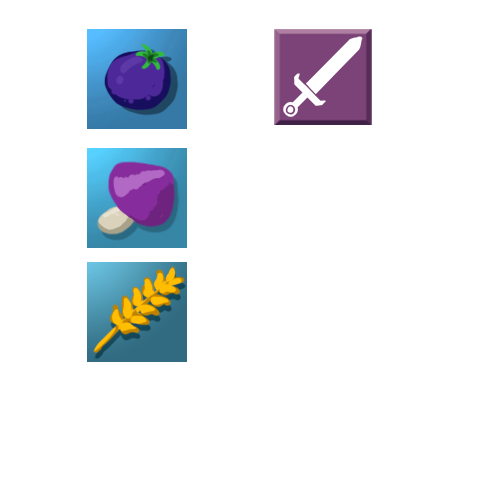
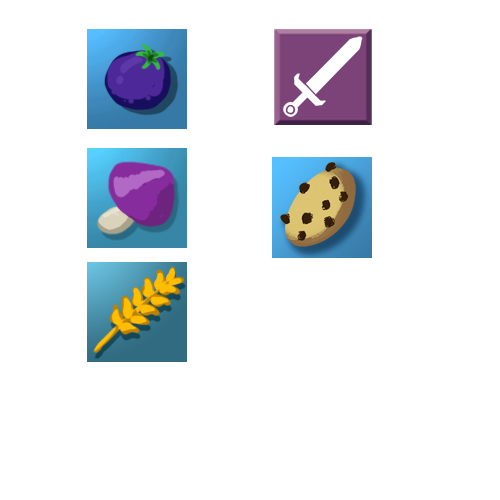
Work on tuto (add the cookie among other things)

Changed region(s): [[0.54, 0.3, 0.75, 0.54]]

diff --git a/Assets/Scripts/Tuto/SeqFirstMove.cs b/Assets/Scripts/Tuto/SeqFirstMove.cs
@@ -49,6 +49,35 @@ public class SeqFirstMove : Sequence {
     //        alreadyPlayed = true;
     //    }
     //}
+    public class ExploreActionPointsExplanation : Step
+    {
+        string str;
+        public ExploreActionPointsExplanation(string _str)
+        {
+            stepFunction = Message_fct;
+            str = _str;
+        }
+
+        public void Message_fct()
+        {
+            if (GameManager.Instance.Ui.GoActionPanelQ.GetComponentInChildren<Button>().transform.GetChild(0).gameObject.GetComponent<ThrowDiceButtonFeedback>() == null)
+                GameManager.Instance.Ui.GoActionPanelQ.GetComponentInChildren<Button>().transform.GetChild(0).gameObject.AddComponent<ThrowDiceButtonFeedback>();
+
+            GameManager.Instance.Ui.GoActionPanelQ.GetComponentInChildren<Button>().interactable = false;
+
+            TutoManager.s_instance.EcrireMessage(str);
+            TutoManager.s_instance.PlayingSequence.CurrentState = SequenceState.Idle;
+        }
+
+        public override void Reverse()
+        {
+            if (GameManager.Instance.Ui.GoActionPanelQ.GetComponentInChildren<Button>().transform.GetChild(0).gameObject.GetComponent<ThrowDiceButtonFeedback>() != null)
+                Destroy(GameManager.Instance.Ui.GoActionPanelQ.GetComponentInChildren<Button>().transform.GetChild(0).gameObject.GetComponent<ThrowDiceButtonFeedback>());
+
+            GameManager.Instance.Ui.GoActionPanelQ.GetComponentInChildren<Button>().interactable = true;
+            alreadyPlayed = false;
+        }
+    }
 
     public class ExploreStep : Step
     {
@@ -163,6 +192,7 @@ public class SeqFirstMove : Sequence {
     public class ActionPointsExplanationStep : Step
     {
         string str;
+        GameObject feedbackPointer;
         public ActionPointsExplanationStep(string _str)
         {
             stepFunction = Message_fct;
@@ -173,6 +203,16 @@ public class SeqFirstMove : Sequence {
         {
             // Feedback sur les points d'action
             // show text
+            GameObject actionPoints = ((SeqFirstMove)TutoManager.s_instance.PlayingSequence).selectedKeepersPanel.transform.GetChild(0).GetChild(0).GetChild((int)PanelSelectedKeeperStatChildren.ActionPoints).gameObject;
+
+            if (feedbackPointer == null)
+            {
+                feedbackPointer = Instantiate(TutoManager.s_instance.uiPointer, GameManager.Instance.Ui.transform.GetChild(0));
+                feedbackPointer.GetComponent<FlecheQuiBouge>().PointToPoint = actionPoints.transform.GetChild(2).position;
+                feedbackPointer.GetComponent<FlecheQuiBouge>().distanceOffset = 30.0f;
+
+                feedbackPointer.transform.localEulerAngles = new Vector3(0, 0, -80);
+            }
 
             TutoManager.s_instance.EcrireMessage(str);
             TutoManager.s_instance.PlayingSequence.CurrentState = SequenceState.Idle;
@@ -181,8 +221,7 @@ public class SeqFirstMove : Sequence {
         public override void Reverse()
         {
             // Desactive le feedback sur les points d'action
-
-            //TutoManager.s_instance.PlayingSequence.CurrentState = SequenceState.WaitingForClickUI;
+            Destroy(feedbackPointer);
             alreadyPlayed = false;
         }
     }
@@ -224,6 +263,74 @@ public class SeqFirstMove : Sequence {
         public override void Reverse()
         {
             Destroy(((SeqFirstMove)TutoManager.s_instance.PlayingSequence).endTurnBtn.GetComponentInChildren<Button>().gameObject.GetComponent<MouseClickExpected>());
+            Destroy(feedback);
+            alreadyPlayed = false;
+        }
+    }
+
+    public class AddHungerStep : Step
+    {
+        string str;
+        GameObject feedback;
+        public AddHungerStep(string _str)
+        {
+            stepFunction = Message_fct;
+            str = _str;
+        }
+
+        public void Message_fct()
+        {
+            GameObject hungerPanel = ((SeqFirstMove)TutoManager.s_instance.PlayingSequence).selectedKeepersPanel.transform.GetChild(0).GetChild(0).GetChild((int)PanelSelectedKeeperStatChildren.Hunger).gameObject;
+            hungerPanel.SetActive(true);
+
+            if (feedback == null)
+            {
+                feedback = Instantiate(TutoManager.s_instance.uiPointer, GameManager.Instance.Ui.transform.GetChild(0)); // Fix: reference to end turn button may need to be stocked somewhere
+                feedback.GetComponent<FlecheQuiBouge>().PointToPoint = hungerPanel.transform.position;
+                feedback.GetComponent<FlecheQuiBouge>().distanceOffset = 150.0f;
+
+                feedback.transform.localEulerAngles = new Vector3(0, 0, -45);
+            }
+
+            TutoManager.s_instance.EcrireMessage(str);
+            TutoManager.s_instance.PlayingSequence.CurrentState = SequenceState.Idle;
+        }
+
+        public override void Reverse()
+        {
+            Destroy(feedback);
+            alreadyPlayed = false;
+        }
+    }
+
+    public class UseAnObjectStep : Step
+    {
+        string str;
+        GameObject feedback;
+        public UseAnObjectStep(string _str)
+        {
+            stepFunction = Message_fct;
+            str = _str;
+        }
+
+        public void Message_fct()
+        {
+            // Add a cookie in inventory with highlight sprite
+            // show inventory
+            // highlight the cookie
+            // Insantiate ItemUI, sprite cookie, 
+            ItemContainer cookie = new ItemContainer(GameManager.Instance.ItemDataBase.getItemById("thecookie"), 1);
+            // Build the cookie item
+            InventoryManager.AddItemToInventory(GameManager.Instance.AllKeepersList[0].GetComponent<Inventory>().Items, cookie);
+            GameManager.Instance.AllKeepersList[0].GetComponent<Inventory>().UpdateInventories();
+            GameManager.Instance.AllKeepersList[0].GetComponent<Inventory>().SelectedInventoryPanel.gameObject.SetActive(true); // Inventory
+
+            TutoManager.s_instance.EcrireMessage(str);
+            TutoManager.s_instance.PlayingSequence.CurrentState = SequenceState.Idle;
+        }
+
+        public override void Reverse()
+        {
             Destroy(feedback);
             alreadyPlayed = false;
         }
@@ -346,15 +453,18 @@ public class SeqFirstMove : Sequence {
         Etapes.Add(new SelectCharacterStep("First select the girl by clicking on her."));
         Etapes.Add(new MovePawnOnTileStep("To interact with the world, you have to use the right click. Try to move the girl."));
         Etapes.Add(new TutoManager.Message(pawnMrResetti, "You can also interact with everything glowing in the world, like this bridge over here.")); // => click expected on bridge
-        Etapes.Add(new TutoManager.Message(pawnMrResetti, "Good,")); // => click expected on bridge
+        Etapes.Add(new ExploreActionPointsExplanation("Good, you can see the cost of the action here."));
         Etapes.Add(new ExploreStep("Now click on the Explore button to explore the next area. And get a cookie."));
 
         Etapes.Add(new TutoManager.Message(pawnMrResetti, "Well done you genius, here's your cookie!"));
         Etapes.Add(new ActionPointsExplanationStep("This action cost you 3 action points. Always keep an eye on them.")); // ==> feedback sur les points d'action
         Etapes.Add(new FirstEndTurnStep("You can restore your action points by clicking on the end turn button."));
 
-        Etapes.Add(new TutoManager.Message(pawnMrResetti, "End your turn starves your characters, so be careful!")); // Activate hunger panel + feedback
-        Etapes.Add(new TutoManager.Message(pawnMrResetti, "You should be able to finish this level now. Good luck!"));
+        Etapes.Add(new AddHungerStep("Ending your turn starves your characters, so be careful!")); // Activate hunger panel + feedback pointer
+        Etapes.Add(new TutoManager.Message(pawnMrResetti, "Remember the cookie?"));
+        Etapes.Add(new UseAnObjectStep("Eat it by double clicking on it to restore your selected character's hunger.")); // Activate inventory and add a cookie in to be used
+
+        Etapes.Add(new TutoManager.Message(pawnMrResetti, "Great! You should be able to finish this level now. Good luck!"));
     }
 
     public override void End()

diff --git a/Assets/Scripts/Managers/EventManager.cs b/Assets/Scripts/Managers/EventManager.cs
@@ -55,7 +55,7 @@ public class EventManager : MonoBehaviour {
                 //ki.AddFeedBackToQueue(GameManager.Instance.SpriteUtils.spriteHunger, -10);
         }
 
-        if (GameManager.Instance.PrisonerInstance.GetComponent<Mortal>().IsAlive)
+        if (GameManager.Instance.PrisonerInstance.GetComponent<Mortal>().IsAlive && GameManager.Instance.PrisonerInstance.GetComponent<HungerHandler>() != null)
             GameManager.Instance.PrisonerInstance.GetComponent<HungerHandler>().CurrentHunger -= 10;
     }
 
@@ -76,7 +76,7 @@ public class EventManager : MonoBehaviour {
                 ki.GetComponent<Mortal>().CurrentHp -= 20;
         }
 
-        if (GameManager.Instance.PrisonerInstance.GetComponent<Mortal>().IsAlive && GameManager.Instance.PrisonerInstance.GetComponent<HungerHandler>().IsStarving)
+        if (GameManager.Instance.PrisonerInstance.GetComponent<Mortal>().IsAlive && GameManager.Instance.PrisonerInstance.GetComponent<HungerHandler>() != null && GameManager.Instance.PrisonerInstance.GetComponent<HungerHandler>().IsStarving)
             GameManager.Instance.PrisonerInstance.GetComponent<Mortal>().CurrentHp -= 20;
     }
 

diff --git a/Assets/Scripts/Tuto/TutoManager.cs b/Assets/Scripts/Tuto/TutoManager.cs
@@ -70,6 +70,8 @@ public class TutoManager : MonoBehaviour {
         GameManager.Instance.AllKeepersList[0].GetComponent<Keeper>().GoListCharacterFollowing.Add(GameManager.Instance.PrisonerInstance.gameObject);
         // No mental health for first sequence
         Destroy(GameManager.Instance.AllKeepersList[0].GetComponent<MentalHealthHandler>());
+        // No hunger for Ashley on first sequence
+        Destroy(GameManager.Instance.PrisonerInstance.GetComponent<HungerHandler>());
 
         // Deactivate feedback above head at start, reactivate at the end turn button step
         GameManager.Instance.AllKeepersList[0].transform.GetChild(2).GetChild(0).gameObject.SetActive(false);

diff --git a/Assets/Scripts/CharactersNew/Behaviours/Keeper.cs b/Assets/Scripts/CharactersNew/Behaviours/Keeper.cs
@@ -528,4 +528,4 @@ namespace Behaviour
 }
 
 public enum PanelShortcutChildren { Image, ActionPoints, HpGauge, HungerGauge, MentalHealthGauge };
-public enum PanelSelectedKeeperStatChildren { Image, ButtonCycleRight, ButtonCycleLeft, ActionPoints, StatTrigger, Mortal, Hunger, MentalHealth };
+public enum PanelSelectedKeeperStatChildren { Image, ButtonCycleRight, ButtonCycleLeft, ActionPoints, Mortal, Hunger, MentalHealth };
